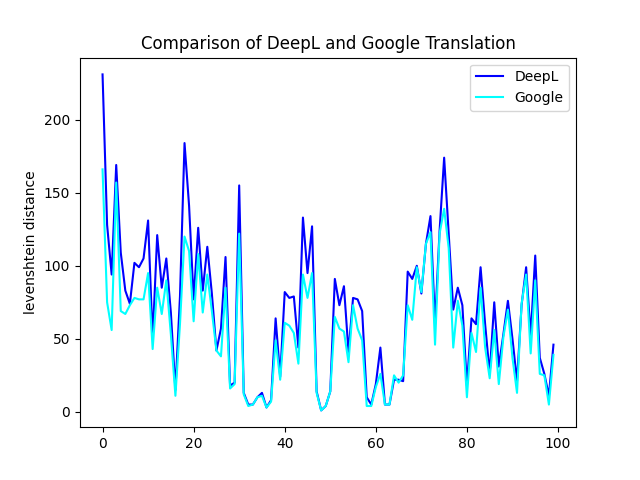
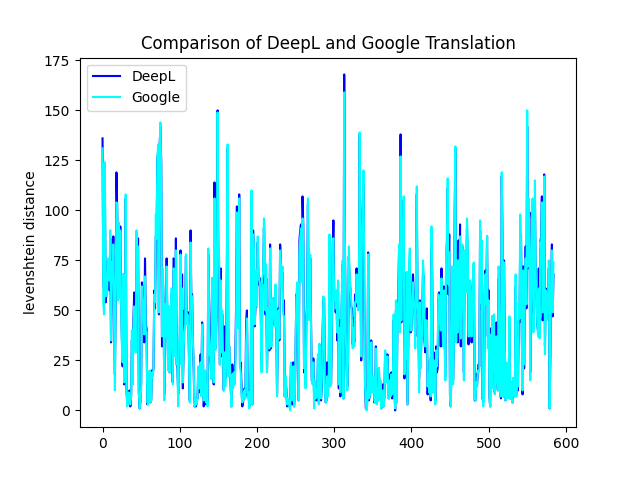
bugfix: preprocessing now performed after translation

diff --git a/analysis.py b/analysis.py
@@ -5,32 +5,45 @@ from levenshtein import levenshtein
 from tqdm import tqdm
 import sys
 
+def preprocess(s):
+    return s.lower().replace(".","").replace("?","").replace("!","").replace(",","").replace(":","").replace(";","").replace("  "," ")
+
+# read the data from the array
 paragraphs = pd.read_csv("paragraphs.csv")
+english_paragraphs = paragraphs.iloc[:,0]
 deepl_paragraphs = paragraphs.iloc[:,1]
 google_paragraphs = paragraphs.iloc[:,2]
-human_translated_paragraphs = paragraphs.iloc[:,3]
+human_paragraphs = paragraphs.iloc[:,3]
 
-# distances measured between (deepl's translation or google's translation) and the human translation
-
-#this array keeps track of how much the two softwares differ
+# initialize arrays to keep track of how much the softwares differ
 deepl_distances = np.array([])
 google_distances = np.array([])
-
-
-# deepl_distances = np.vectorize(levenshtein)(deepl_sentences, human_translated_sentences)
-# google_distances = np.vectorize(levenshtein)(deepl_sentences, human_translated_sentences)
+distances = np.array([])
+num_words = np.array([])
 
 #compare the rest of the text
-for i in tqdm (range(0, len(deepl_paragraphs)), colour="green", desc="Comparing Paragraphs...", file=sys.stdout):
+for i in tqdm (range(0, len(english_paragraphs)), colour="green", desc="Comparing Paragraphs...", file=sys.stdout):
+    # Preprocess the paragraph
+    human = preprocess(human_paragraphs[i])
+    deepl = preprocess(deepl_paragraphs[i])
+    google = preprocess(google_paragraphs[i])
+    english = preprocess(english_paragraphs[i])
+
+    # Calculate and save the levenshtein distances
     try:
-        deepl_distances = np.append(deepl_distances, levenshtein(deepl_paragraphs[i],human_translated_paragraphs[i]))
-        google_distances = np.append(google_distances, levenshtein(google_paragraphs[i],human_translated_paragraphs[i]))
+        deepl_distances = np.append(deepl_distances, levenshtein(deepl, human))
+        google_distances = np.append(google_distances, levenshtein(google, human))
+        distances = np.append(distances, levenshtein(google, deepl))
+        num_words = np.append(num_words, len(english.split(" ")))
     except Exception as e:
         pass
 
 # computing statistical results
 print("Average Levenshtein distance between Google Translate and the Human Translation:", np.mean(google_distances))
 print("Average Levenshtein distance between DeepL and the Human Translation:", np.mean(deepl_distances))
+print("Average Levenshtein distance between DeepL and Google Translate:", np.mean(distances))
+print("Per-English-Word Levenshtein distance between DeepL and the Human Translation:", np.mean(deepl_distances/num_words))
+print("Per-English-Word Levenshtein distance between Google Translate and the Human Translation:", np.mean(google_distances/num_words))
 
 # Plot a comparison of deepl and google
 plt.title("Comparison of DeepL and Google Translation")

diff --git a/preprocessing.py b/preprocessing.py
@@ -7,8 +7,8 @@ import pandas as pd
 # preprocess the English text
 english_text = open('full-text.txt', encoding="utf-8").read()
 english_text = english_text.replace("\n\n", "§") # define paragraphs
-english_text = english_text.lower()
 english_text = english_text.replace('"','')
+english_text = english_text.replace('\n',' ')
 
 # split the text by paragraphs
 english_paragraphs = english_text.split("§")
@@ -16,29 +16,29 @@ english_paragraphs = english_text.split("§")
 # preprocess french text
 french_text = open('full-text-fr.txt', encoding="utf-8").read()
 french_text = french_text.replace("\n\n", "§") # define paragraphs
-french_text = french_text.lower()
 french_text = french_text.replace('"','')
 french_text = french_text.replace('«','')
 french_text = french_text.replace('»','')
 french_text = french_text.replace('--',' ')
+french_text = french_text.replace('\n',' ')
 
 # split the text by paragraphs
-human_translated_paragraphs = french_text.split("§")
+human_paragraphs = french_text.split("§")
 
 # initializing the arrays
 deepl_paragraphs = []
 google_paragraphs = []
 
 # translate the text
-for i in tqdm (range(0, len(english_paragraphs)), colour="green", desc="Translating...", file=sys.stdout):
-    deepl_paragraphs.append(deepl_translate(english_paragraphs[i]))
-    google_paragraphs.append(google_translate(english_paragraphs[i]))
+for paragraph in tqdm(english_paragraphs, colour="green", desc="Translating...", file=sys.stdout):
+    deepl_paragraphs.append(deepl_translate(paragraph))
+    google_paragraphs.append(google_translate(paragraph))
 
 # save the data as a .csv
 paragraphs = pd.DataFrame({
     "original english paragraphs":english_paragraphs,
     "deepl paragraphs":deepl_paragraphs,
     "google paragraphs":google_paragraphs,
-    "human-translated paragraphs":human_translated_paragraphs
+    "human-translated paragraphs":human_paragraphs
 })
 paragraphs.to_csv("paragraphs.csv", encoding='utf-8', index=False)

diff --git a/test.py b/test.py
@@ -4,19 +4,21 @@ from translate import deepl_translate, google_translate
 
 class TestLev(unittest.TestCase):
     def test_one(self):
-        self.assertEqual(levenshtein("distance","distance"), 0)
+        self.assertEqual(levenshtein("levenshtein distance","levenshtein distance"), 0)
         self.assertEqual(levenshtein("hello jordan","hello meghan"), 1)
         self.assertEqual(levenshtein("he is","she is"), 1)
-        self.assertEqual(levenshtein("War of the Worlds","For of the Worlds"), 1)
-        self.assertEqual(levenshtein("Two","Two hundered"), 1)
-        self.assertEqual(levenshtein("Seventeen different people","different"), 2)
-        self.assertEqual(levenshtein("Ten terrible tantrums on Tuesday","Five feverish fits on Friday"), 4)
-        self.assertEqual(levenshtein("Salut, je m'appelle Jordan","Bonjour, je m'appelle Jordan"), 1)
+        self.assertEqual(levenshtein("war of the worlds","for of the worlds"), 1)
+        self.assertEqual(levenshtein("two","two hundered"), 1)
+        self.assertEqual(levenshtein("seventeen different people","different"), 2)
+        self.assertEqual(levenshtein("ten terrible tantrums on tuesday","five feverish fits on friday"), 4)
     
     def test_two(self):
         self.assertEqual(levenshtein("était","etait"),1)
         self.assertEqual(levenshtein("il s'appelle","il se appelle"),2)
         self.assertEqual(levenshtein("il s'appelle","il appelle"),1)
+        self.assertEqual(levenshtein("Salut, je m'appelle Jordan","Bonjour, je m'appelle Jordan"), 1)
+        self.assertEqual(levenshtein("ce sont les traductions","les traductions sont là"), 4)
+        self.assertEqual(levenshtein("j'ai 585", "j'en ai 585"), 2)
 
 class TestTranslate(unittest.TestCase):
     def test_five(self):
